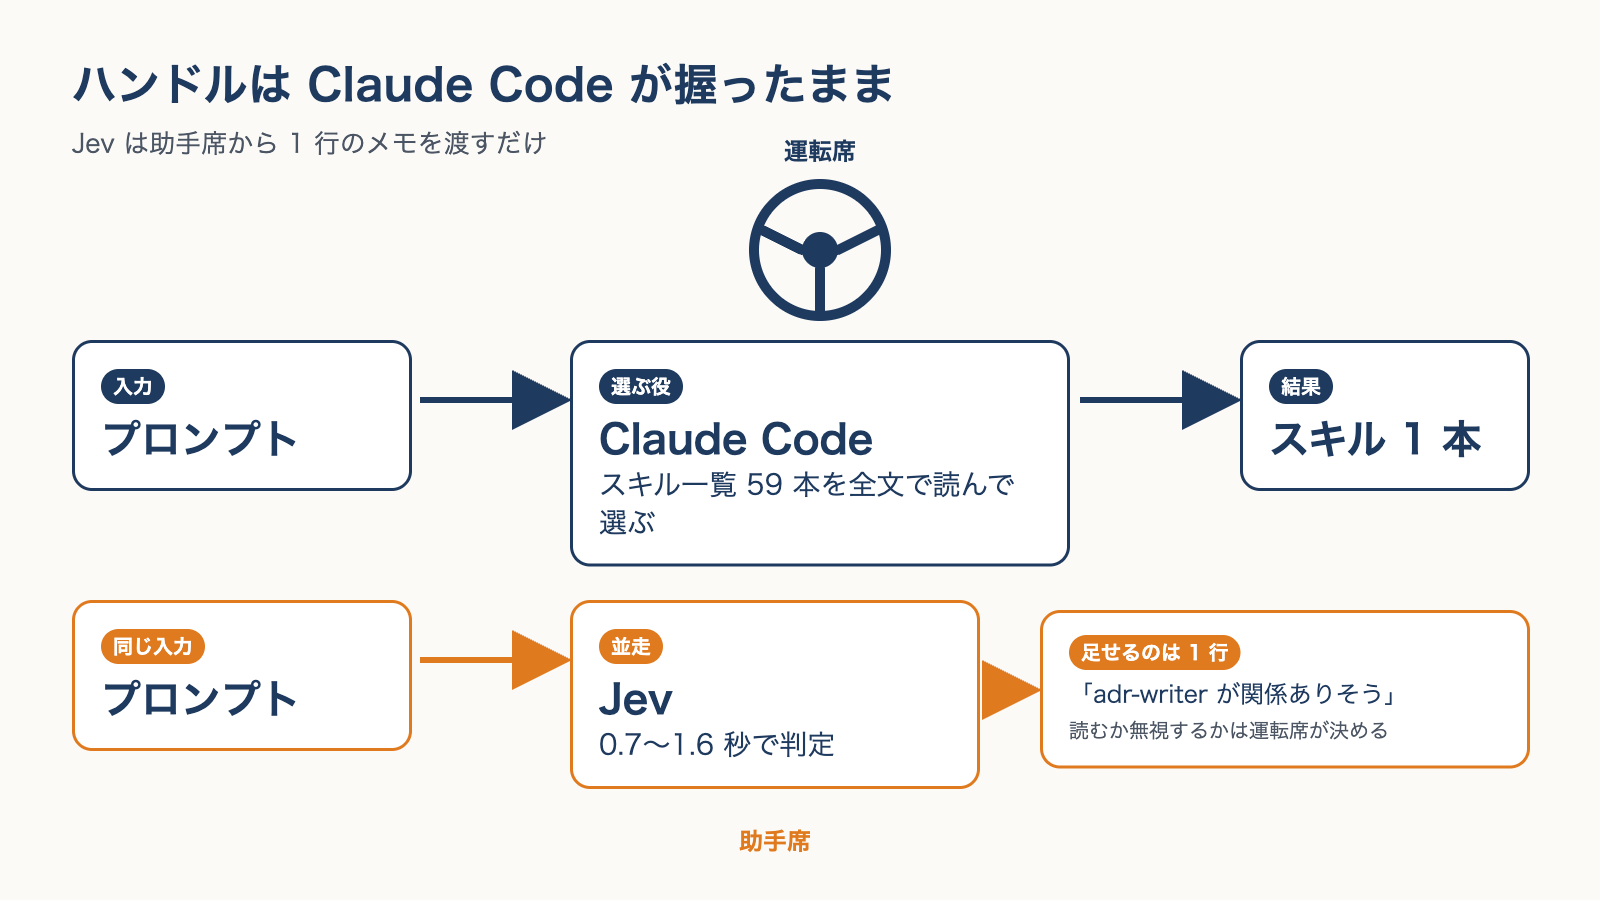
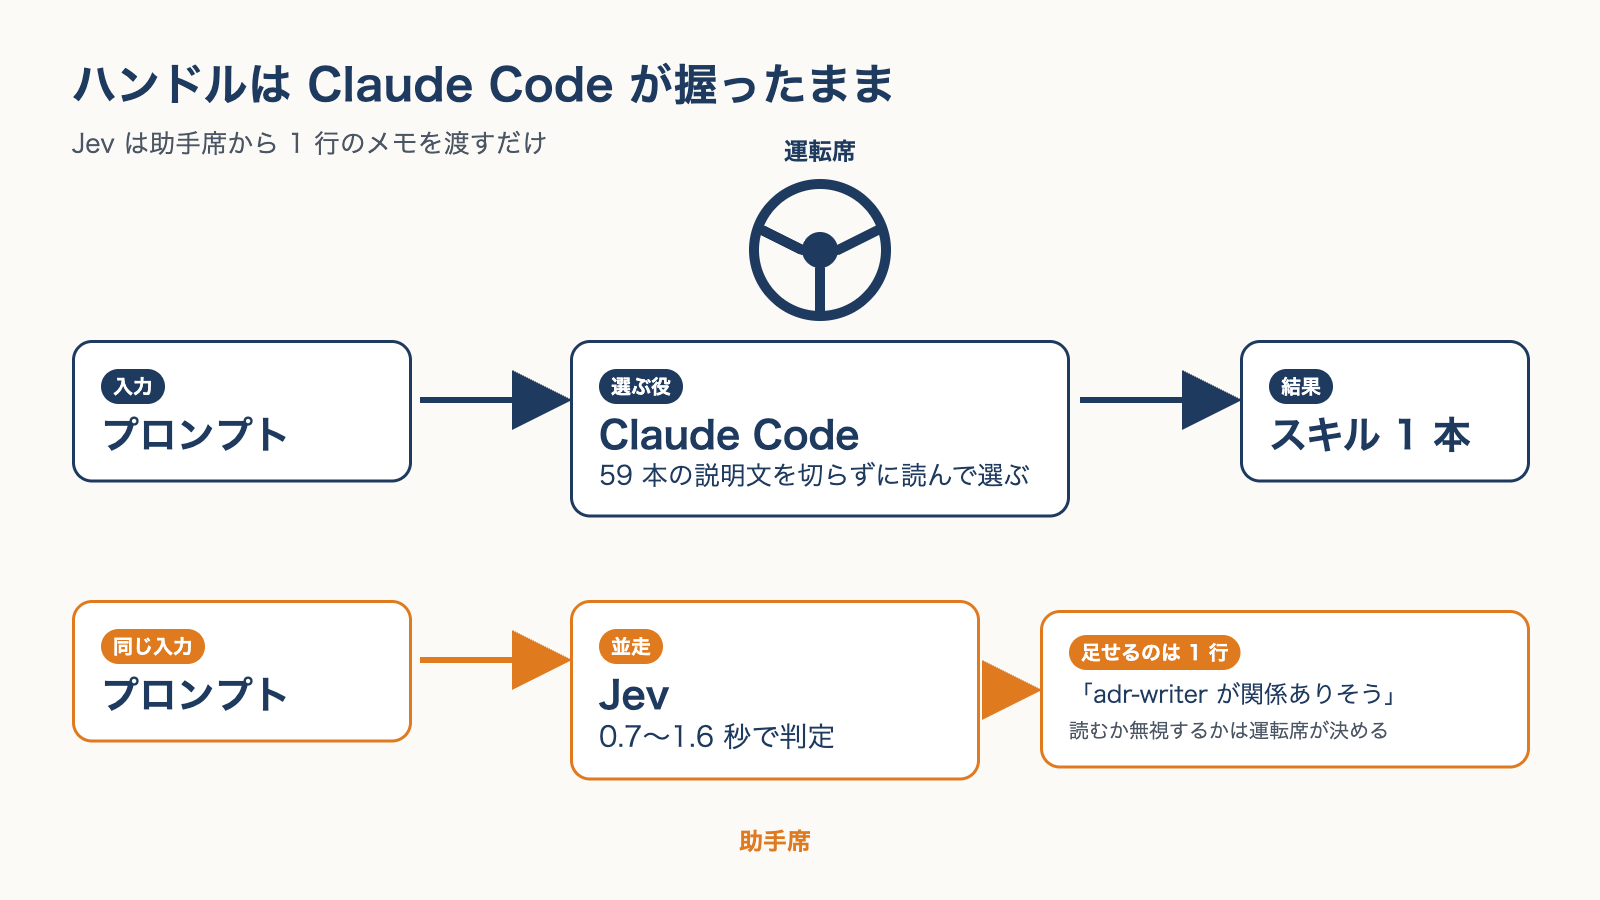
fix(article): jev-retrofit-limits の図 3 枚を editor 指摘で撮り直し
処分記録（editor、図 4 枚と直後 1 文のみ対象。凍結本文は対象外）:
- M3 採用: hero「スキル一覧 59 本を全文で読んで選ぶ」→「59 本の説明文を切らずに読んで選ぶ」
  （「全文」が SKILL.md 全文と読める。本文 L62 の区別と衝突）
- M2 採用: three-roads の枠を「Jev の判定を届ける 3 つの道」→「スキル一覧に手を入れる 3 つの道」、
  出発点を「スキル一覧」、道 3 に「Jev も Mods も要らない」（道 3 は Jev が要らない道。本文 L88）
- m1 採用: hero の alt に 59 本 / 0.7〜1.6 秒 / adr-writer を入れる
- m2 採用: who-picks の「未記載」枠を点線にして「効く見込みが小さい」の灰と分ける
- m3 採用: caption「道 1 の先で」→「道 1 の隣で」（図は並行分岐）
- M1 不採用: 運転席の比喩を削る提案。「道 / 引き返す」は本文の語りの語で既知物との 1 対 1 対比
  ではなく、eli5 比喩は運転席 1 個。hero は著者通読 GO 済み（2026-09-22）
- Suggestion 不採用: conditions を L68 の後へ。発見が出そろう L62 の後が規約どおり

diff --git a/figures/jev-retrofit-limits-three-roads.html b/figures/jev-retrofit-limits-three-roads.html
@@ -1,5 +1,5 @@
 <!doctype html><html lang="ja"><head><meta charset="utf-8"><link rel="stylesheet" href="_base.css"><title>three-roads</title></head><body><div class="stage">
-<h1>Jev の判定を Claude Code に届ける 3 つの道</h1>
+<h1>スキル一覧に手を入れる 3 つの道</h1>
 <div class="sub">私は 1 つ目で止め、2 つ目は前日に別の人が作っていた</div>
 <svg viewBox="0 0 1600 900">
 <defs><marker id="m" markerWidth="10" markerHeight="10" refX="8" refY="5" orient="auto"><path d="M0,0 L10,5 L0,10 z" fill="#1f3a5f"/></marker>
@@ -11,10 +11,10 @@
 <path class="arrow" d="M1160,515 L1250,515" marker-end="url(#m)"/>
 <path class="arrow gray" d="M1160,745 L1250,745" marker-end="url(#mg)"/>
 </svg>
-<div class="card acc" style="left:72px;top:430px;width:300px"><span class="tag acc">出発点</span><div class="big">Jev の判定</div></div>
+<div class="card acc" style="left:72px;top:410px;width:300px"><span class="tag acc">対象</span><div class="big">スキル一覧</div><div style="font-size:22px">Claude Code がモデルに見せる名簿</div></div>
 <div class="card" style="left:650px;top:200px;width:500px;font-size:24px"><span class="tag">道 1</span><div class="big">1 行足す</div><div>hook の additionalContext。スキル一覧はそのまま</div></div>
 <div class="card" style="left:650px;top:430px;width:500px;font-size:24px"><span class="tag">道 2</span><div class="big">一覧を書き換える</div><div>Mods の skill_listing。既定の選択を置き換える</div></div>
-<div class="card gray" style="left:650px;top:660px;width:500px;font-size:24px"><span class="tag gray">道 3</span><div class="big">一覧を軽くする</div><div>公式設定 skillOverrides。見せ方を 4 段階で切り替える</div></div>
+<div class="card gray" style="left:650px;top:660px;width:500px;font-size:24px"><span class="tag gray">道 3</span><div class="big">一覧を軽くする</div><div>公式設定 skillOverrides。Jev も Mods も要らない</div></div>
 <div class="card acc" style="left:1260px;top:215px;width:270px;font-size:24px"><span class="tag acc">私</span><div>ここで止めた</div></div>
 <div class="card" style="left:1260px;top:445px;width:270px;font-size:24px"><span class="tag">前日</span><div>jev-skill-suggestion が実装済み</div></div>
 <div class="card gray" style="left:1260px;top:675px;width:270px;font-size:24px"><span class="tag gray">用途</span><div>トークンを減らすだけなら</div></div>

diff --git a/figures/jev-retrofit-limits-who-picks.html b/figures/jev-retrofit-limits-who-picks.html
@@ -12,7 +12,7 @@
 <text x="1230" y="870" text-anchor="middle" class="lbl" style="font-size:26px;font-weight:700;fill:#1f3a5f">選ぶ役そのものに届く</text>
 </svg>
 <div class="card acc" style="left:330px;top:290px;width:560px"><span class="tag acc">効いた</span><div class="big">cookbook</div><div>Haiku が 60 字の索引で選ぶ横に、Jev の 1 行</div></div>
-<div class="card gray" style="left:950px;top:290px;width:560px"><span class="tag gray">未記載</span><div style="color:#9aa3ad">この記事では扱わない</div></div>
+<div class="card gray" style="left:950px;top:290px;width:560px;border-style:dashed"><span class="tag gray">未記載</span><div style="color:#9aa3ad">この記事では扱わない</div></div>
 <div class="card gray" style="left:330px;top:570px;width:560px"><span class="tag gray">効く見込みが小さい</span><div class="big">Claude Code + 1 行</div><div>Fable が全文を読んで選ぶ横に、同じ説明文を読んだ 1 行</div></div>
 <div class="card" style="left:950px;top:570px;width:560px"><span class="tag">変わりうる</span><div class="big">Mods / pi-jev</div><div>一覧を書き換える、道具そのものを切り替える</div></div>
 </div></body></html>

diff --git a/figures/jev-retrofit-limits-hero.html b/figures/jev-retrofit-limits-hero.html
@@ -16,7 +16,7 @@
 <text x="775" y="850" text-anchor="middle" class="lbl" style="font-size:24px;fill:#e07a1f;font-weight:700">助手席</text>
 </svg>
 <div class="card" style="left:72px;top:340px;width:340px"><span class="tag">入力</span><div class="big">プロンプト</div></div>
-<div class="card" style="left:570px;top:340px;width:500px"><span class="tag">選ぶ役</span><div class="big">Claude Code</div><div>スキル一覧 59 本を全文で読んで選ぶ</div></div>
+<div class="card" style="left:570px;top:340px;width:500px"><span class="tag">選ぶ役</span><div class="big">Claude Code</div><div style="font-size:26px">59 本の説明文を切らずに読んで選ぶ</div></div>
 <div class="card" style="left:1240px;top:340px;width:290px"><span class="tag">結果</span><div class="big">スキル 1 本</div></div>
 <div class="card acc" style="left:72px;top:600px;width:340px"><span class="tag acc">同じ入力</span><div class="big">プロンプト</div></div>
 <div class="card acc" style="left:570px;top:600px;width:410px"><span class="tag acc">並走</span><div class="big">Jev</div><div>0.7〜1.6 秒で判定</div></div>

diff --git a/articles/jev-retrofit-limits.md b/articles/jev-retrofit-limits.md
@@ -15,7 +15,7 @@ published_at: 2026-09-21 19:42
 
 この記事は、作ったものがどこまで届き、どこで引き返し、引き返した先に何があったかを書きます。Jevを自分のハーネスに足そうか考えている人が、足す前に確かめることを3つ持ち帰れるようにします。
 
-![1行足しても、スキルを選ぶ役はClaude Codeが持ったままで、Jevの判定は横を並走している](/images/jev-retrofit-limits-hero.png)
+![1行足しても、スキルを選ぶ役はClaude Codeが持ったまま（59本の説明文を切らずに読んで選ぶ）で、Jevの判定（0.7〜1.6秒、adr-writerなどを1行で提案）は横を並走している](/images/jev-retrofit-limits-hero.png)
 
 作ったものの形は、この1枚に収まります。Jevが渡せるのは1行のメモで、スキルを選ぶハンドルはClaude Codeが握ったままでした。
 
@@ -89,9 +89,9 @@ READMEの冒頭に「Claude Code の強いモデルに対する router として
 
 私はどちらも試していません。効くかどうかは分かりません。分かったのは、公式への追従を背負ってでも作る人が、私が手を止める前からいたことです。試したくなったら、私が作らなくても実物があります。
 
-![Jevの判定をClaude Codeに届ける3つの道。道1は1行足す（私はここで止めた）、道2は一覧を書き換える（前日にjev-skill-suggestionが実装済み）、道3は公式設定skillOverridesで一覧を軽くする](/images/jev-retrofit-limits-three-roads.png)
+![スキル一覧に手を入れる3つの道。道1は1行足す（私はここで止めた）、道2は一覧を書き換える（前日にjev-skill-suggestionが実装済み）、道3は公式設定skillOverridesで一覧を軽くする（JevもModsも要らない）](/images/jev-retrofit-limits-three-roads.png)
 
-3つの道を並べると、私が止めた道1の先で、道2は前日に作られていて、道3の用途は公式の設定で足りていました。
+3つの道を並べると、私が止めた道1の隣で、道2は前日に作られていて、道3の用途は公式の設定で足りていました。
 
 ## 選ぶ役を誰が持っているか
 
